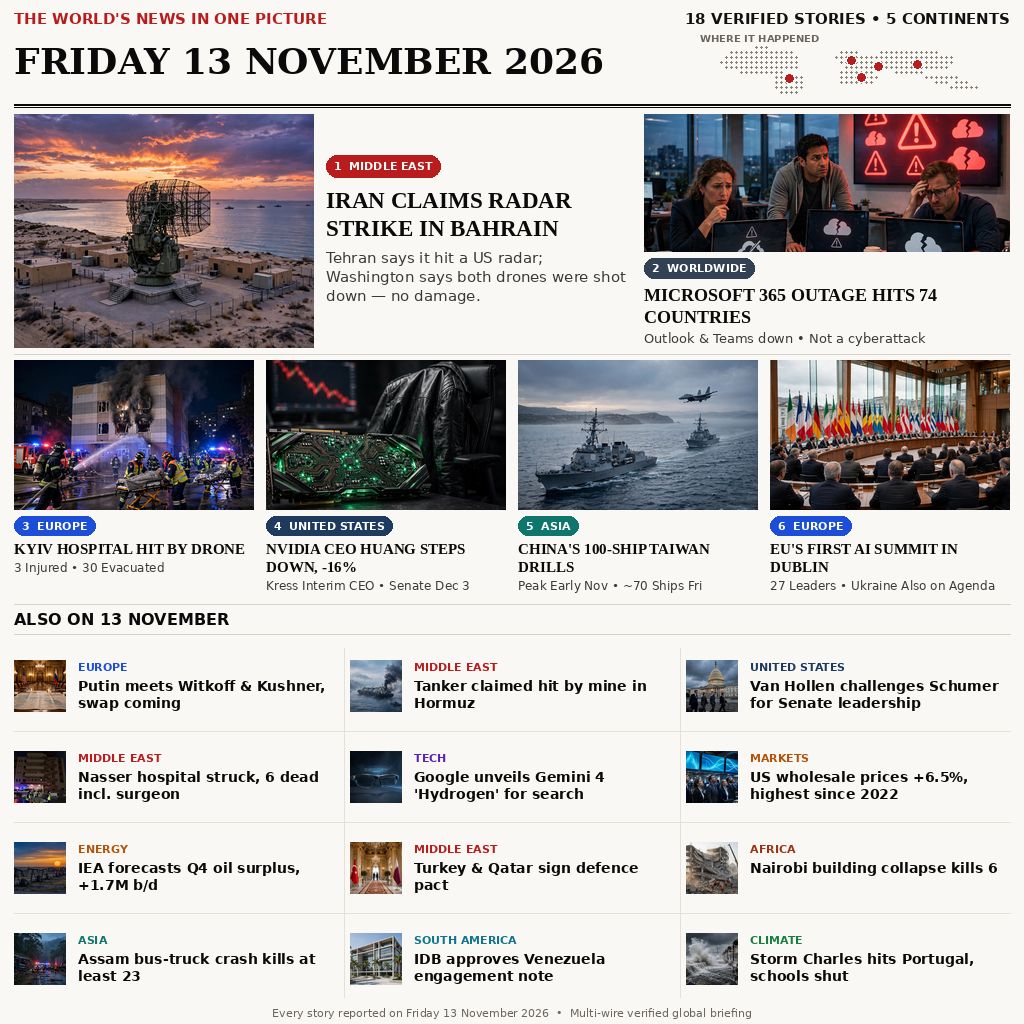
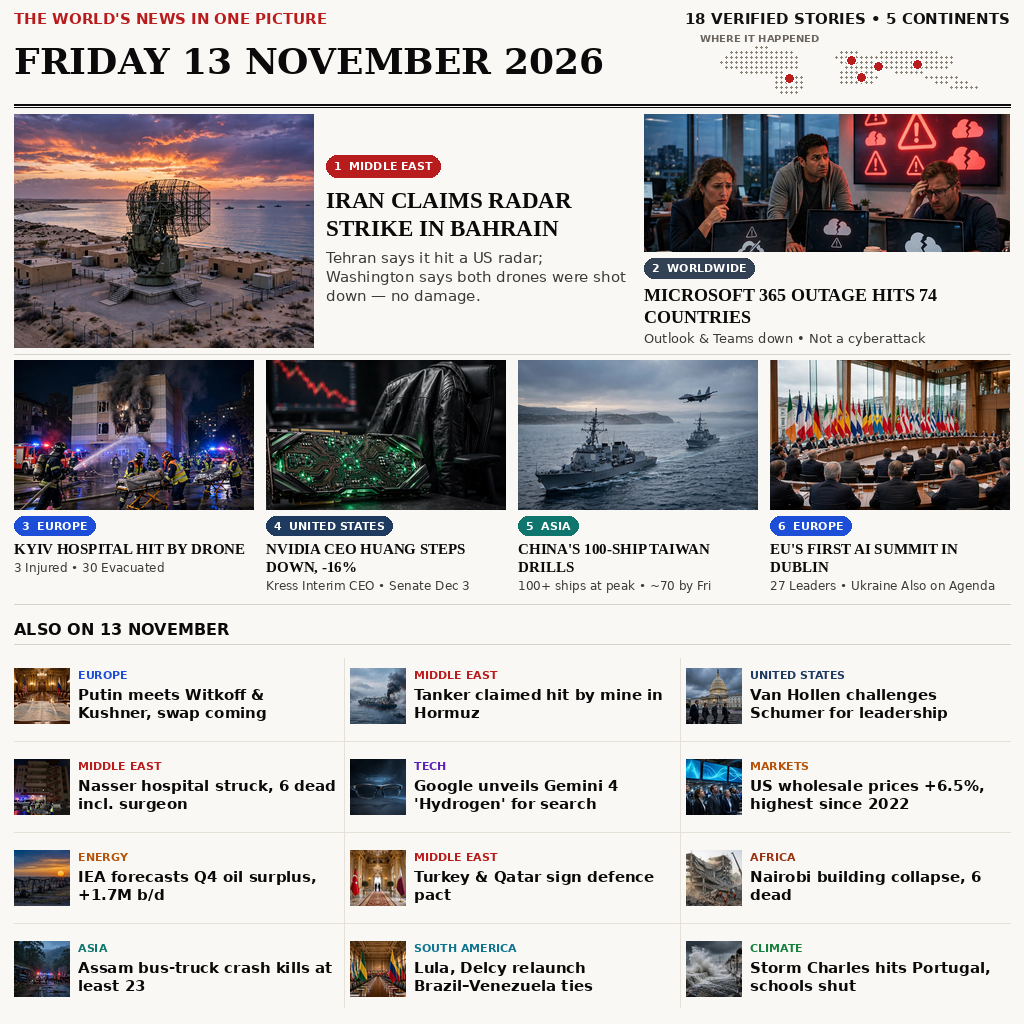
news-image-01 entry: A7b broadsheet (no footer, 100-ship headline, Nairobi fix)

Changed region(s): [[0.0, 0.5938, 0.9688, 1.0], [0.5, 0.5625, 0.6875, 0.5938]]

diff --git a/main.py b/main.py
@@ -1,12 +1,12 @@
 """news-image-01 entry: copy the pre-rendered broadsheet image to /output.
 
-The image (entry.png) is the final A6 broadsheet: "Friday 13 November 2026 —
+The image (entry.png) is the final A7b broadsheet: "Friday 13 November 2026 —
 Global Briefing", 18 verified stories across 5 continents, rendered offline
-with Python/PIL (newsprint #FAF8F5, ink #0A0A0A). A6 upgrades A4: radar-dish
-Bahrain hero, office-workers Microsoft 365 outage illustration, NVIDIA
-resignation promoted to the Tier 2 photo grid with an emerald GPU plate,
-sentence-case bold sans-serif digest. This program only copies it to the
-grading output directory, byte for byte.
+with Python/PIL (newsprint #FAF8F5, ink #0A0A0A). A7b upgrades A6: the footer
+is removed entirely, the China drills headline carries the scale number
+("100-SHIP") with a coherent deck, and the Nairobi headline reads "6 dead"
+as one unit. This program only copies it to the grading output directory,
+byte for byte.
 """
 
 import os
